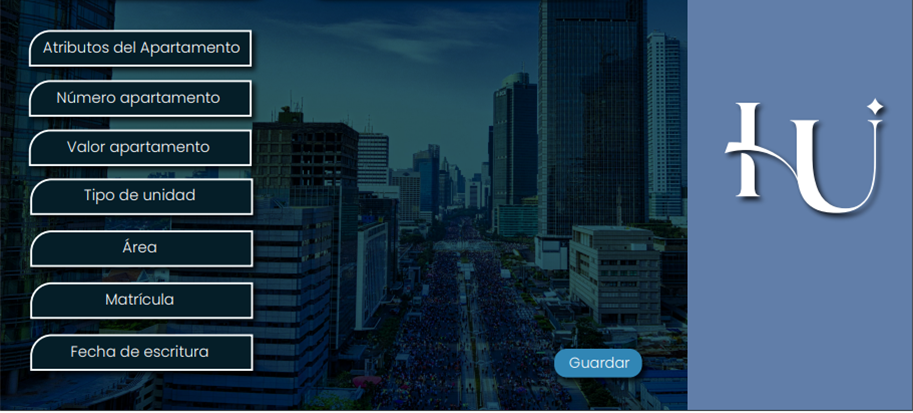
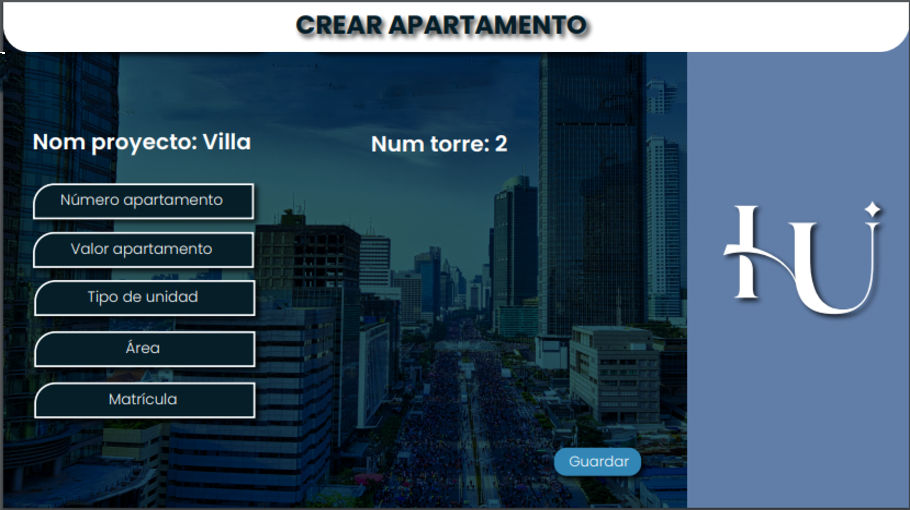
wazaaaaaaa

diff --git a/Horizontes_Urbanos/src/main/java/VISTA/admin/EditarAsesor.java b/Horizontes_Urbanos/src/main/java/VISTA/admin/EditarAsesor.java
@@ -56,35 +56,35 @@ public class EditarAsesor extends javax.swing.JFrame {
                 txtNombreAsesorActionPerformed(evt);
             }
         });
-        getContentPane().add(txtNombreAsesor, new org.netbeans.lib.awtextra.AbsoluteConstraints(270, 50, 290, 20));
+        getContentPane().add(txtNombreAsesor, new org.netbeans.lib.awtextra.AbsoluteConstraints(250, 130, 290, 20));
 
         txtCedulaAsesor.addActionListener(new java.awt.event.ActionListener() {
             public void actionPerformed(java.awt.event.ActionEvent evt) {
                 txtCedulaAsesorActionPerformed(evt);
             }
         });
-        getContentPane().add(txtCedulaAsesor, new org.netbeans.lib.awtextra.AbsoluteConstraints(270, 90, 290, -1));
+        getContentPane().add(txtCedulaAsesor, new org.netbeans.lib.awtextra.AbsoluteConstraints(250, 170, 290, -1));
 
         txtDireccionAsesor.addActionListener(new java.awt.event.ActionListener() {
             public void actionPerformed(java.awt.event.ActionEvent evt) {
                 txtDireccionAsesorActionPerformed(evt);
             }
         });
-        getContentPane().add(txtDireccionAsesor, new org.netbeans.lib.awtextra.AbsoluteConstraints(270, 130, 290, 20));
+        getContentPane().add(txtDireccionAsesor, new org.netbeans.lib.awtextra.AbsoluteConstraints(250, 210, 290, 20));
 
         txtCorreoAsesorReg.addActionListener(new java.awt.event.ActionListener() {
             public void actionPerformed(java.awt.event.ActionEvent evt) {
                 txtCorreoAsesorRegActionPerformed(evt);
             }
         });
-        getContentPane().add(txtCorreoAsesorReg, new org.netbeans.lib.awtextra.AbsoluteConstraints(270, 170, 290, 20));
+        getContentPane().add(txtCorreoAsesorReg, new org.netbeans.lib.awtextra.AbsoluteConstraints(250, 250, 290, 20));
 
         txtContraseñaAsesor.addActionListener(new java.awt.event.ActionListener() {
             public void actionPerformed(java.awt.event.ActionEvent evt) {
                 txtContraseñaAsesorActionPerformed(evt);
             }
         });
-        getContentPane().add(txtContraseñaAsesor, new org.netbeans.lib.awtextra.AbsoluteConstraints(270, 290, 290, 20));
+        getContentPane().add(txtContraseñaAsesor, new org.netbeans.lib.awtextra.AbsoluteConstraints(250, 380, 290, 20));
 
         btnGuardarAsesor.setBackground(new java.awt.Color(49, 134, 181));
         btnGuardarAsesor.setFont(new java.awt.Font("Segoe UI Black", 0, 12)); // NOI18N
@@ -95,23 +95,23 @@ public class EditarAsesor extends javax.swing.JFrame {
                 btnGuardarAsesorActionPerformed(evt);
             }
         });
-        getContentPane().add(btnGuardarAsesor, new org.netbeans.lib.awtextra.AbsoluteConstraints(540, 360, 110, 40));
+        getContentPane().add(btnGuardarAsesor, new org.netbeans.lib.awtextra.AbsoluteConstraints(540, 450, 110, 40));
 
         txtUsuarioAsesor.addActionListener(new java.awt.event.ActionListener() {
             public void actionPerformed(java.awt.event.ActionEvent evt) {
                 txtUsuarioAsesorActionPerformed(evt);
             }
         });
-        getContentPane().add(txtUsuarioAsesor, new org.netbeans.lib.awtextra.AbsoluteConstraints(270, 250, 290, 20));
+        getContentPane().add(txtUsuarioAsesor, new org.netbeans.lib.awtextra.AbsoluteConstraints(250, 340, 290, 20));
 
         txtTelefonoAsesorReg.addActionListener(new java.awt.event.ActionListener() {
             public void actionPerformed(java.awt.event.ActionEvent evt) {
                 txtTelefonoAsesorRegActionPerformed(evt);
             }
         });
-        getContentPane().add(txtTelefonoAsesorReg, new org.netbeans.lib.awtextra.AbsoluteConstraints(270, 210, 290, 20));
+        getContentPane().add(txtTelefonoAsesorReg, new org.netbeans.lib.awtextra.AbsoluteConstraints(250, 290, 290, 20));
 
-        jLabel1.setIcon(new javax.swing.ImageIcon(getClass().getResource("/Images/registrarAsesor.png"))); // NOI18N
+        jLabel1.setIcon(new javax.swing.ImageIcon(getClass().getResource("/Images/editarAsesor.png"))); // NOI18N
         getContentPane().add(jLabel1, new org.netbeans.lib.awtextra.AbsoluteConstraints(0, 0, -1, -1));
 
         pack();

diff --git a/Horizontes_Urbanos/src/main/java/VISTA/admin/administrarApartamento.java b/Horizontes_Urbanos/src/main/java/VISTA/admin/administrarApartamento.java
@@ -77,28 +77,28 @@ public class administrarApartamento extends javax.swing.JFrame {
                 txtMatriculaActionPerformed(evt);
             }
         });
-        jPanel1.add(txtMatricula, new org.netbeans.lib.awtextra.AbsoluteConstraints(280, 290, 290, 30));
+        jPanel1.add(txtMatricula, new org.netbeans.lib.awtextra.AbsoluteConstraints(280, 320, 290, 30));
 
         txtTipoUnidad.addActionListener(new java.awt.event.ActionListener() {
             public void actionPerformed(java.awt.event.ActionEvent evt) {
                 txtTipoUnidadActionPerformed(evt);
             }
         });
-        jPanel1.add(txtTipoUnidad, new org.netbeans.lib.awtextra.AbsoluteConstraints(280, 190, 290, 30));
+        jPanel1.add(txtTipoUnidad, new org.netbeans.lib.awtextra.AbsoluteConstraints(280, 220, 290, 30));
 
         txtNumeroApartamento.addActionListener(new java.awt.event.ActionListener() {
             public void actionPerformed(java.awt.event.ActionEvent evt) {
                 txtNumeroApartamentoActionPerformed(evt);
             }
         });
-        jPanel1.add(txtNumeroApartamento, new org.netbeans.lib.awtextra.AbsoluteConstraints(280, 90, 290, 30));
+        jPanel1.add(txtNumeroApartamento, new org.netbeans.lib.awtextra.AbsoluteConstraints(280, 120, 290, 30));
 
         txtArea.addActionListener(new java.awt.event.ActionListener() {
             public void actionPerformed(java.awt.event.ActionEvent evt) {
                 txtAreaActionPerformed(evt);
             }
         });
-        jPanel1.add(txtArea, new org.netbeans.lib.awtextra.AbsoluteConstraints(280, 240, 290, 30));
+        jPanel1.add(txtArea, new org.netbeans.lib.awtextra.AbsoluteConstraints(280, 270, 290, 30));
 
         btnGuardarApartamento.setBackground(new java.awt.Color(49, 134, 181));
         btnGuardarApartamento.setFont(new java.awt.Font("Segoe UI Black", 0, 12)); // NOI18N
@@ -109,14 +109,14 @@ public class administrarApartamento extends javax.swing.JFrame {
                 btnGuardarApartamentoActionPerformed(evt);
             }
         });
-        jPanel1.add(btnGuardarApartamento, new org.netbeans.lib.awtextra.AbsoluteConstraints(550, 350, 110, 40));
+        jPanel1.add(btnGuardarApartamento, new org.netbeans.lib.awtextra.AbsoluteConstraints(550, 370, 110, 40));
 
         txtValorApartamento.addActionListener(new java.awt.event.ActionListener() {
             public void actionPerformed(java.awt.event.ActionEvent evt) {
                 txtValorApartamentoActionPerformed(evt);
             }
         });
-        jPanel1.add(txtValorApartamento, new org.netbeans.lib.awtextra.AbsoluteConstraints(280, 140, 290, 30));
+        jPanel1.add(txtValorApartamento, new org.netbeans.lib.awtextra.AbsoluteConstraints(280, 170, 290, 30));
 
         txtTorreActual.setFont(new java.awt.Font("Segoe UI Black", 0, 18)); // NOI18N
         txtTorreActual.setText("TorreActual");
@@ -125,7 +125,7 @@ public class administrarApartamento extends javax.swing.JFrame {
                 txtTorreActualActionPerformed(evt);
             }
         });
-        jPanel1.add(txtTorreActual, new org.netbeans.lib.awtextra.AbsoluteConstraints(290, 30, 120, 40));
+        jPanel1.add(txtTorreActual, new org.netbeans.lib.awtextra.AbsoluteConstraints(380, 60, 140, 40));
 
         txtProyectoActual.setFont(new java.awt.Font("Segoe UI Black", 0, 18)); // NOI18N
         txtProyectoActual.setText("ProyectoActual");
@@ -134,10 +134,10 @@ public class administrarApartamento extends javax.swing.JFrame {
                 txtProyectoActualActionPerformed(evt);
             }
         });
-        jPanel1.add(txtProyectoActual, new org.netbeans.lib.awtextra.AbsoluteConstraints(30, 40, 230, 40));
+        jPanel1.add(txtProyectoActual, new org.netbeans.lib.awtextra.AbsoluteConstraints(40, 50, 230, 40));
 
         jLabel1.setIcon(new javax.swing.ImageIcon(getClass().getResource("/Images/crearApartamento.png"))); // NOI18N
-        jPanel1.add(jLabel1, new org.netbeans.lib.awtextra.AbsoluteConstraints(0, -40, 910, 510));
+        jPanel1.add(jLabel1, new org.netbeans.lib.awtextra.AbsoluteConstraints(10, -70, 910, 520));
 
         jTabbedPane1.addTab("Crear Apartamento", jPanel1);
 

diff --git a/Horizontes_Urbanos/src/main/java/VISTA/admin/administrarTorre.java b/Horizontes_Urbanos/src/main/java/VISTA/admin/administrarTorre.java
@@ -51,7 +51,7 @@ public class administrarTorre extends javax.swing.JFrame {
         txtNumeroTorre = new javax.swing.JTextField();
         txtProyectoActual = new javax.swing.JTextField();
         btnMenu = new javax.swing.JButton();
-        jLabel1 = new javax.swing.JLabel();
+        jLabel3 = new javax.swing.JLabel();
         jPanel2 = new javax.swing.JPanel();
         btnEliminarProyecto = new javax.swing.JButton();
         btnEditarTorre = new javax.swing.JButton();
@@ -77,14 +77,14 @@ public class administrarTorre extends javax.swing.JFrame {
                 btnSiguienteCrearProyectoActionPerformed(evt);
             }
         });
-        jPanel1.add(btnSiguienteCrearProyecto, new org.netbeans.lib.awtextra.AbsoluteConstraints(530, 290, 100, 40));
+        jPanel1.add(btnSiguienteCrearProyecto, new org.netbeans.lib.awtextra.AbsoluteConstraints(540, 370, 100, 40));
 
         txtNumeroTorre.addActionListener(new java.awt.event.ActionListener() {
             public void actionPerformed(java.awt.event.ActionEvent evt) {
                 txtNumeroTorreActionPerformed(evt);
             }
         });
-        jPanel1.add(txtNumeroTorre, new org.netbeans.lib.awtextra.AbsoluteConstraints(280, 110, 280, 30));
+        jPanel1.add(txtNumeroTorre, new org.netbeans.lib.awtextra.AbsoluteConstraints(290, 280, 280, 30));
 
         txtProyectoActual.setFont(new java.awt.Font("Segoe UI Black", 0, 18)); // NOI18N
         txtProyectoActual.setText("jTextField1");
@@ -93,7 +93,7 @@ public class administrarTorre extends javax.swing.JFrame {
                 txtProyectoActualActionPerformed(evt);
             }
         });
-        jPanel1.add(txtProyectoActual, new org.netbeans.lib.awtextra.AbsoluteConstraints(160, 40, 240, 40));
+        jPanel1.add(txtProyectoActual, new org.netbeans.lib.awtextra.AbsoluteConstraints(20, 150, 280, 40));
 
         btnMenu.setBackground(new java.awt.Color(49, 134, 181));
         btnMenu.setFont(new java.awt.Font("Segoe UI Black", 0, 12)); // NOI18N
@@ -104,10 +104,10 @@ public class administrarTorre extends javax.swing.JFrame {
                 btnMenuActionPerformed(evt);
             }
         });
-        jPanel1.add(btnMenu, new org.netbeans.lib.awtextra.AbsoluteConstraints(50, 330, 100, 40));
+        jPanel1.add(btnMenu, new org.netbeans.lib.awtextra.AbsoluteConstraints(30, 360, 100, 40));
 
-        jLabel1.setIcon(new javax.swing.ImageIcon(getClass().getResource("/Images/crearTorre.png"))); // NOI18N
-        jPanel1.add(jLabel1, new org.netbeans.lib.awtextra.AbsoluteConstraints(0, 0, 920, 440));
+        jLabel3.setIcon(new javax.swing.ImageIcon(getClass().getResource("/Images/crearTorre.png"))); // NOI18N
+        jPanel1.add(jLabel3, new org.netbeans.lib.awtextra.AbsoluteConstraints(10, 0, -1, -1));
 
         jTabbedPane1.addTab("Crear Torre", jPanel1);
 
@@ -161,8 +161,7 @@ public class administrarTorre extends javax.swing.JFrame {
             layout.createParallelGroup(javax.swing.GroupLayout.Alignment.LEADING)
             .addGroup(javax.swing.GroupLayout.Alignment.TRAILING, layout.createSequentialGroup()
                 .addContainerGap()
-                .addComponent(jTabbedPane1)
-                .addContainerGap())
+                .addComponent(jTabbedPane1))
         );
         layout.setVerticalGroup(
             layout.createParallelGroup(javax.swing.GroupLayout.Alignment.LEADING)
@@ -339,8 +338,8 @@ public class administrarTorre extends javax.swing.JFrame {
     private javax.swing.JButton btnEliminarProyecto;
     private javax.swing.JButton btnMenu;
     private javax.swing.JButton btnSiguienteCrearProyecto;
-    private javax.swing.JLabel jLabel1;
     private javax.swing.JLabel jLabel2;
+    private javax.swing.JLabel jLabel3;
     private javax.swing.JPanel jPanel1;
     private javax.swing.JPanel jPanel2;
     private javax.swing.JScrollPane jScrollPane1;

diff --git a/Horizontes_Urbanos/src/main/java/VISTA/admin/EditarApartamento.java b/Horizontes_Urbanos/src/main/java/VISTA/admin/EditarApartamento.java
@@ -50,42 +50,42 @@ public class EditarApartamento extends javax.swing.JFrame {
                 txtNumeroApartamentoActionPerformed(evt);
             }
         });
-        getContentPane().add(txtNumeroApartamento, new org.netbeans.lib.awtextra.AbsoluteConstraints(300, 160, 290, 30));
+        getContentPane().add(txtNumeroApartamento, new org.netbeans.lib.awtextra.AbsoluteConstraints(280, 110, 290, 30));
 
         txtValorApartamento.addActionListener(new java.awt.event.ActionListener() {
             public void actionPerformed(java.awt.event.ActionEvent evt) {
                 txtValorApartamentoActionPerformed(evt);
             }
         });
-        getContentPane().add(txtValorApartamento, new org.netbeans.lib.awtextra.AbsoluteConstraints(300, 210, 290, 30));
+        getContentPane().add(txtValorApartamento, new org.netbeans.lib.awtextra.AbsoluteConstraints(280, 160, 290, 30));
 
         txtTipoUnidad.addActionListener(new java.awt.event.ActionListener() {
             public void actionPerformed(java.awt.event.ActionEvent evt) {
                 txtTipoUnidadActionPerformed(evt);
             }
         });
-        getContentPane().add(txtTipoUnidad, new org.netbeans.lib.awtextra.AbsoluteConstraints(300, 270, 290, 30));
+        getContentPane().add(txtTipoUnidad, new org.netbeans.lib.awtextra.AbsoluteConstraints(280, 210, 290, 30));
 
         txtArea.addActionListener(new java.awt.event.ActionListener() {
             public void actionPerformed(java.awt.event.ActionEvent evt) {
                 txtAreaActionPerformed(evt);
             }
         });
-        getContentPane().add(txtArea, new org.netbeans.lib.awtextra.AbsoluteConstraints(300, 320, 290, 30));
+        getContentPane().add(txtArea, new org.netbeans.lib.awtextra.AbsoluteConstraints(280, 260, 290, 30));
 
         txtMatricula.addActionListener(new java.awt.event.ActionListener() {
             public void actionPerformed(java.awt.event.ActionEvent evt) {
                 txtMatriculaActionPerformed(evt);
             }
         });
-        getContentPane().add(txtMatricula, new org.netbeans.lib.awtextra.AbsoluteConstraints(300, 380, 290, 30));
+        getContentPane().add(txtMatricula, new org.netbeans.lib.awtextra.AbsoluteConstraints(280, 310, 290, 30));
 
         txtFechaEscritura.addActionListener(new java.awt.event.ActionListener() {
             public void actionPerformed(java.awt.event.ActionEvent evt) {
                 txtFechaEscrituraActionPerformed(evt);
             }
         });
-        getContentPane().add(txtFechaEscritura, new org.netbeans.lib.awtextra.AbsoluteConstraints(300, 440, 200, 30));
+        getContentPane().add(txtFechaEscritura, new org.netbeans.lib.awtextra.AbsoluteConstraints(280, 360, 290, 30));
 
         btnGuardarApartamento.setBackground(new java.awt.Color(49, 134, 181));
         btnGuardarApartamento.setFont(new java.awt.Font("Segoe UI Black", 0, 12)); // NOI18N
@@ -96,9 +96,9 @@ public class EditarApartamento extends javax.swing.JFrame {
                 btnGuardarApartamentoActionPerformed(evt);
             }
         });
-        getContentPane().add(btnGuardarApartamento, new org.netbeans.lib.awtextra.AbsoluteConstraints(550, 430, 110, 40));
+        getContentPane().add(btnGuardarApartamento, new org.netbeans.lib.awtextra.AbsoluteConstraints(530, 440, 110, 40));
 
-        jLabel1.setIcon(new javax.swing.ImageIcon(getClass().getResource("/Images/crearProyecto3.png"))); // NOI18N
+        jLabel1.setIcon(new javax.swing.ImageIcon(getClass().getResource("/Images/editarApartamento.png"))); // NOI18N
         getContentPane().add(jLabel1, new org.netbeans.lib.awtextra.AbsoluteConstraints(0, 0, -1, -1));
 
         pack();

diff --git a/Horizontes_Urbanos/src/main/java/VISTA/admin/crearTorre2.java b/Horizontes_Urbanos/src/main/java/VISTA/admin/crearTorre2.java
@@ -62,45 +62,45 @@ public class crearTorre2 extends javax.swing.JFrame {
                 btnGuardarApartamentoActionPerformed(evt);
             }
         });
-        getContentPane().add(btnGuardarApartamento, new org.netbeans.lib.awtextra.AbsoluteConstraints(520, 330, 100, 40));
+        getContentPane().add(btnGuardarApartamento, new org.netbeans.lib.awtextra.AbsoluteConstraints(530, 440, 100, 40));
 
         txtNumeroApartamento.addActionListener(new java.awt.event.ActionListener() {
             public void actionPerformed(java.awt.event.ActionEvent evt) {
                 txtNumeroApartamentoActionPerformed(evt);
             }
         });
-        getContentPane().add(txtNumeroApartamento, new org.netbeans.lib.awtextra.AbsoluteConstraints(280, 90, 290, 20));
+        getContentPane().add(txtNumeroApartamento, new org.netbeans.lib.awtextra.AbsoluteConstraints(290, 130, 290, 20));
 
         txtValorApartamento.addActionListener(new java.awt.event.ActionListener() {
             public void actionPerformed(java.awt.event.ActionEvent evt) {
                 txtValorApartamentoActionPerformed(evt);
             }
         });
-        getContentPane().add(txtValorApartamento, new org.netbeans.lib.awtextra.AbsoluteConstraints(280, 140, 290, 20));
+        getContentPane().add(txtValorApartamento, new org.netbeans.lib.awtextra.AbsoluteConstraints(290, 190, 290, 20));
 
         txtTipoUnidad.addActionListener(new java.awt.event.ActionListener() {
             public void actionPerformed(java.awt.event.ActionEvent evt) {
                 txtTipoUnidadActionPerformed(evt);
             }
         });
-        getContentPane().add(txtTipoUnidad, new org.netbeans.lib.awtextra.AbsoluteConstraints(280, 190, 290, 20));
+        getContentPane().add(txtTipoUnidad, new org.netbeans.lib.awtextra.AbsoluteConstraints(290, 240, 290, 20));
 
         txtArea.addActionListener(new java.awt.event.ActionListener() {
             public void actionPerformed(java.awt.event.ActionEvent evt) {
                 txtAreaActionPerformed(evt);
             }
         });
-        getContentPane().add(txtArea, new org.netbeans.lib.awtextra.AbsoluteConstraints(280, 230, 290, -1));
+        getContentPane().add(txtArea, new org.netbeans.lib.awtextra.AbsoluteConstraints(290, 290, 290, -1));
 
         txtMatricula.addActionListener(new java.awt.event.ActionListener() {
             public void actionPerformed(java.awt.event.ActionEvent evt) {
                 txtMatriculaActionPerformed(evt);
             }
         });
-        getContentPane().add(txtMatricula, new org.netbeans.lib.awtextra.AbsoluteConstraints(280, 290, 290, 20));
+        getContentPane().add(txtMatricula, new org.netbeans.lib.awtextra.AbsoluteConstraints(290, 350, 290, 20));
 
-        jLabel1.setIcon(new javax.swing.ImageIcon(getClass().getResource("/Images/gestionarTorre2.png"))); // NOI18N
-        getContentPane().add(jLabel1, new org.netbeans.lib.awtextra.AbsoluteConstraints(0, 0, -1, -1));
+        jLabel1.setIcon(new javax.swing.ImageIcon(getClass().getResource("/Images/crearTorreApto.png"))); // NOI18N
+        getContentPane().add(jLabel1, new org.netbeans.lib.awtextra.AbsoluteConstraints(10, 0, 910, -1));
 
         pack();
     }// </editor-fold>//GEN-END:initComponents

diff --git a/Horizontes_Urbanos/src/main/java/VISTA/admin/crearProyecto2.java b/Horizontes_Urbanos/src/main/java/VISTA/admin/crearProyecto2.java
@@ -57,16 +57,16 @@ public class crearProyecto2 extends javax.swing.JFrame {
                 btnSiguienteCrearTorreActionPerformed(evt);
             }
         });
-        getContentPane().add(btnSiguienteCrearTorre, new org.netbeans.lib.awtextra.AbsoluteConstraints(510, 360, 110, 40));
+        getContentPane().add(btnSiguienteCrearTorre, new org.netbeans.lib.awtextra.AbsoluteConstraints(510, 410, 110, 40));
 
         txtNumeroTorre.addActionListener(new java.awt.event.ActionListener() {
             public void actionPerformed(java.awt.event.ActionEvent evt) {
                 txtNumeroTorreActionPerformed(evt);
             }
         });
-        getContentPane().add(txtNumeroTorre, new org.netbeans.lib.awtextra.AbsoluteConstraints(340, 190, 290, 30));
+        getContentPane().add(txtNumeroTorre, new org.netbeans.lib.awtextra.AbsoluteConstraints(320, 240, 290, 30));
 
-        jLabel1.setIcon(new javax.swing.ImageIcon(getClass().getResource("/Images/crearProyecto2.png"))); // NOI18N
+        jLabel1.setIcon(new javax.swing.ImageIcon(getClass().getResource("/Images/crearProyecto-Torre.png"))); // NOI18N
         getContentPane().add(jLabel1, new org.netbeans.lib.awtextra.AbsoluteConstraints(0, 0, -1, -1));
 
         pack();

diff --git a/Horizontes_Urbanos/src/main/java/VISTA/admin/administrarProyecto.java b/Horizontes_Urbanos/src/main/java/VISTA/admin/administrarProyecto.java
@@ -81,7 +81,7 @@ public class administrarProyecto extends javax.swing.JFrame {
                 txtNombreProyectoActionPerformed(evt);
             }
         });
-        jPanel1.add(txtNombreProyecto, new org.netbeans.lib.awtextra.AbsoluteConstraints(340, 170, 290, 30));
+        jPanel1.add(txtNombreProyecto, new org.netbeans.lib.awtextra.AbsoluteConstraints(320, 230, 290, 30));
 
         btnMenu.setBackground(new java.awt.Color(49, 134, 181));
         btnMenu.setFont(new java.awt.Font("Segoe UI Black", 0, 12)); // NOI18N
@@ -92,7 +92,7 @@ public class administrarProyecto extends javax.swing.JFrame {
                 btnMenuActionPerformed(evt);
             }
         });
-        jPanel1.add(btnMenu, new org.netbeans.lib.awtextra.AbsoluteConstraints(50, 380, 100, 40));
+        jPanel1.add(btnMenu, new org.netbeans.lib.awtextra.AbsoluteConstraints(40, 410, 100, 40));
 
         jLabel1.setIcon(new javax.swing.ImageIcon(getClass().getResource("/Images/crearProyecto.png"))); // NOI18N
         jPanel1.add(jLabel1, new org.netbeans.lib.awtextra.AbsoluteConstraints(0, 0, 910, 480));

diff --git a/Horizontes_Urbanos/src/main/java/VISTA/admin/crearProyecto3.java b/Horizontes_Urbanos/src/main/java/VISTA/admin/crearProyecto3.java
@@ -99,9 +99,9 @@ public class crearProyecto3 extends javax.swing.JFrame {
                 btnGuardarApartamentoActionPerformed(evt);
             }
         });
-        getContentPane().add(btnGuardarApartamento, new org.netbeans.lib.awtextra.AbsoluteConstraints(550, 430, 110, 40));
+        getContentPane().add(btnGuardarApartamento, new org.netbeans.lib.awtextra.AbsoluteConstraints(550, 450, 110, 40));
 
-        jLabel1.setIcon(new javax.swing.ImageIcon(getClass().getResource("/Images/crearProyecto3.png"))); // NOI18N
+        jLabel1.setIcon(new javax.swing.ImageIcon(getClass().getResource("/Images/crearProyecto-apto.png"))); // NOI18N
         getContentPane().add(jLabel1, new org.netbeans.lib.awtextra.AbsoluteConstraints(0, 0, -1, -1));
 
         pack();
